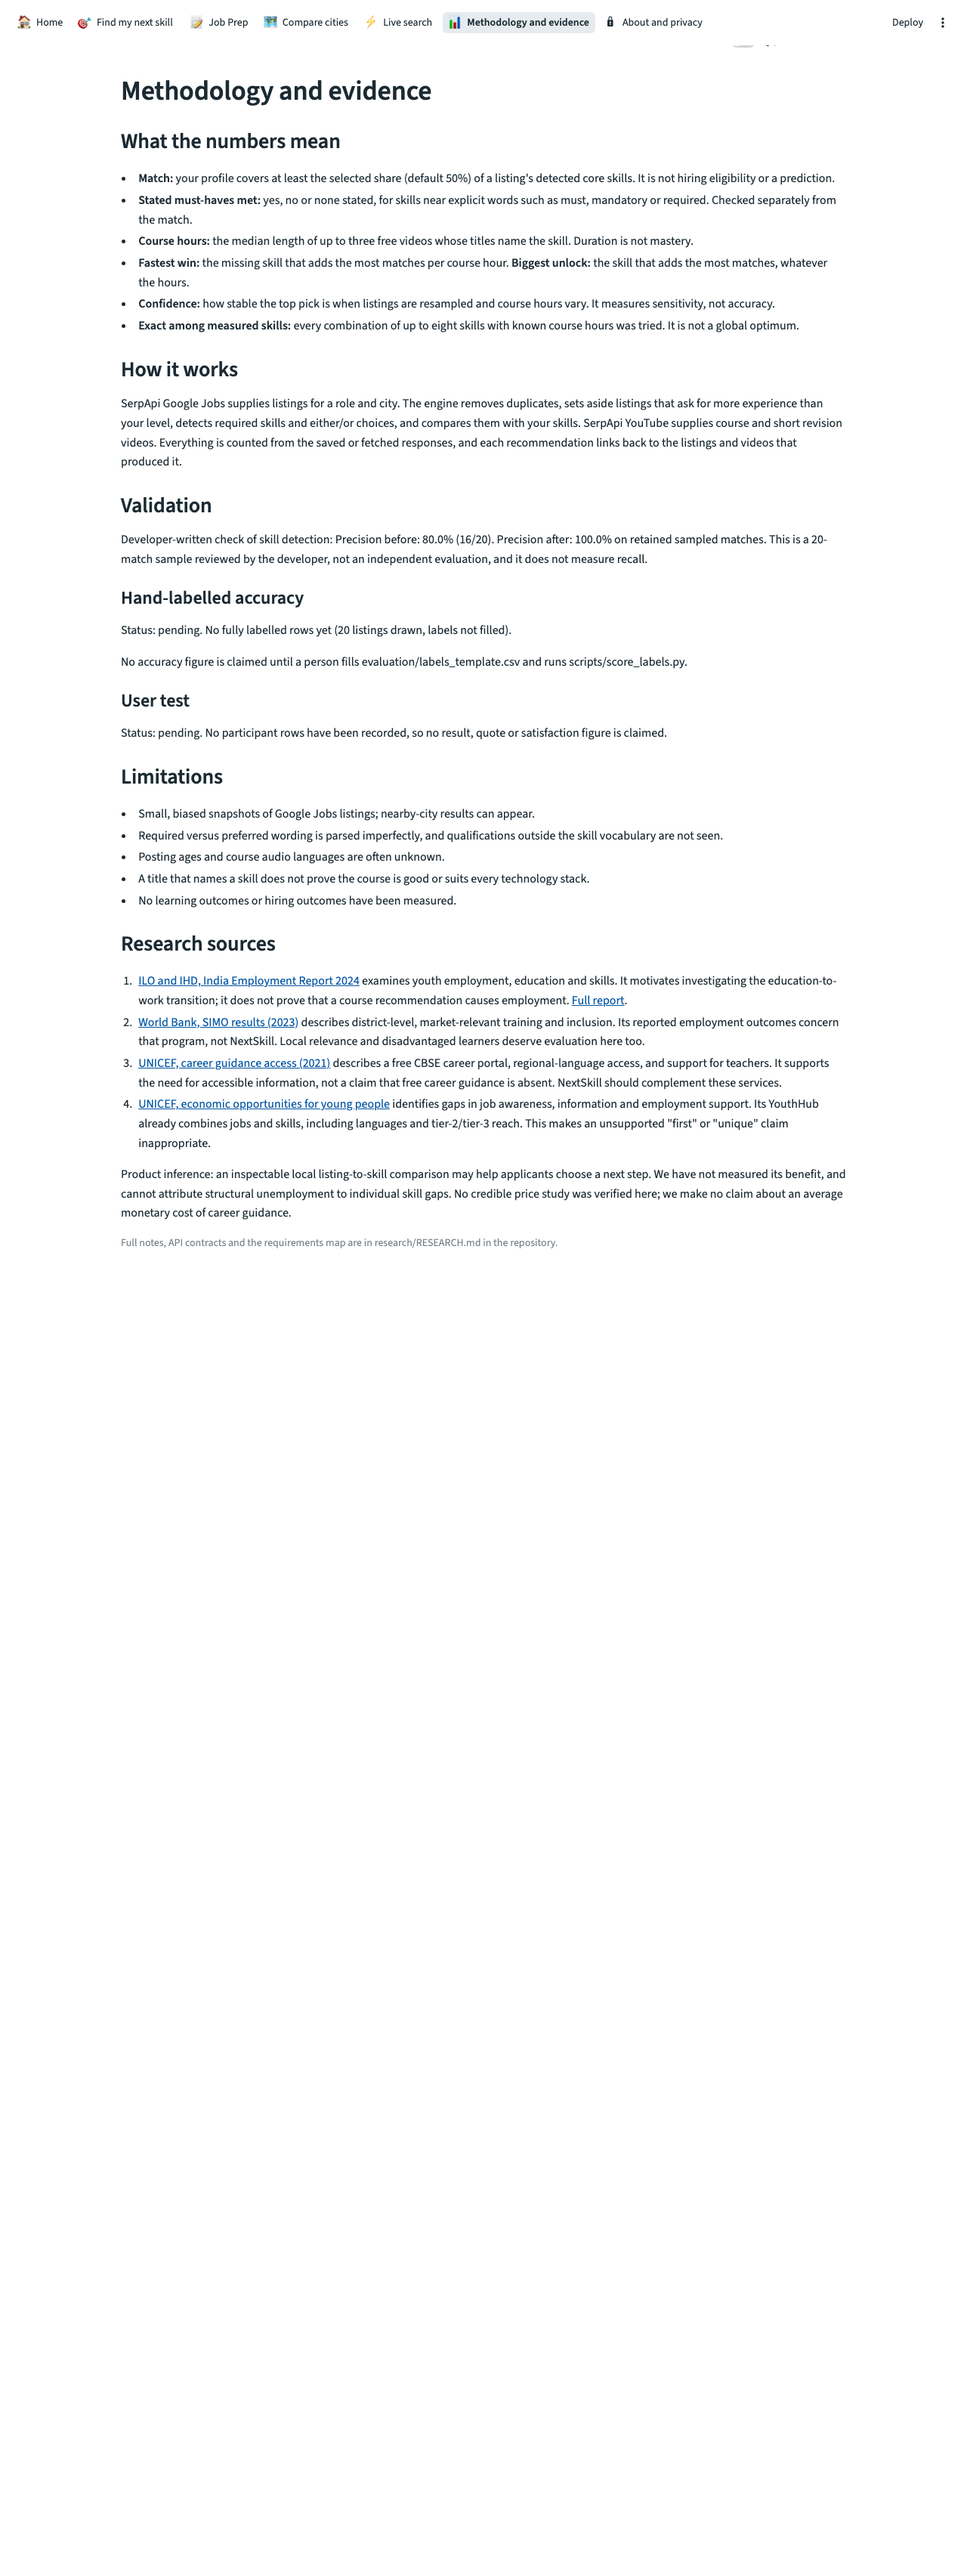
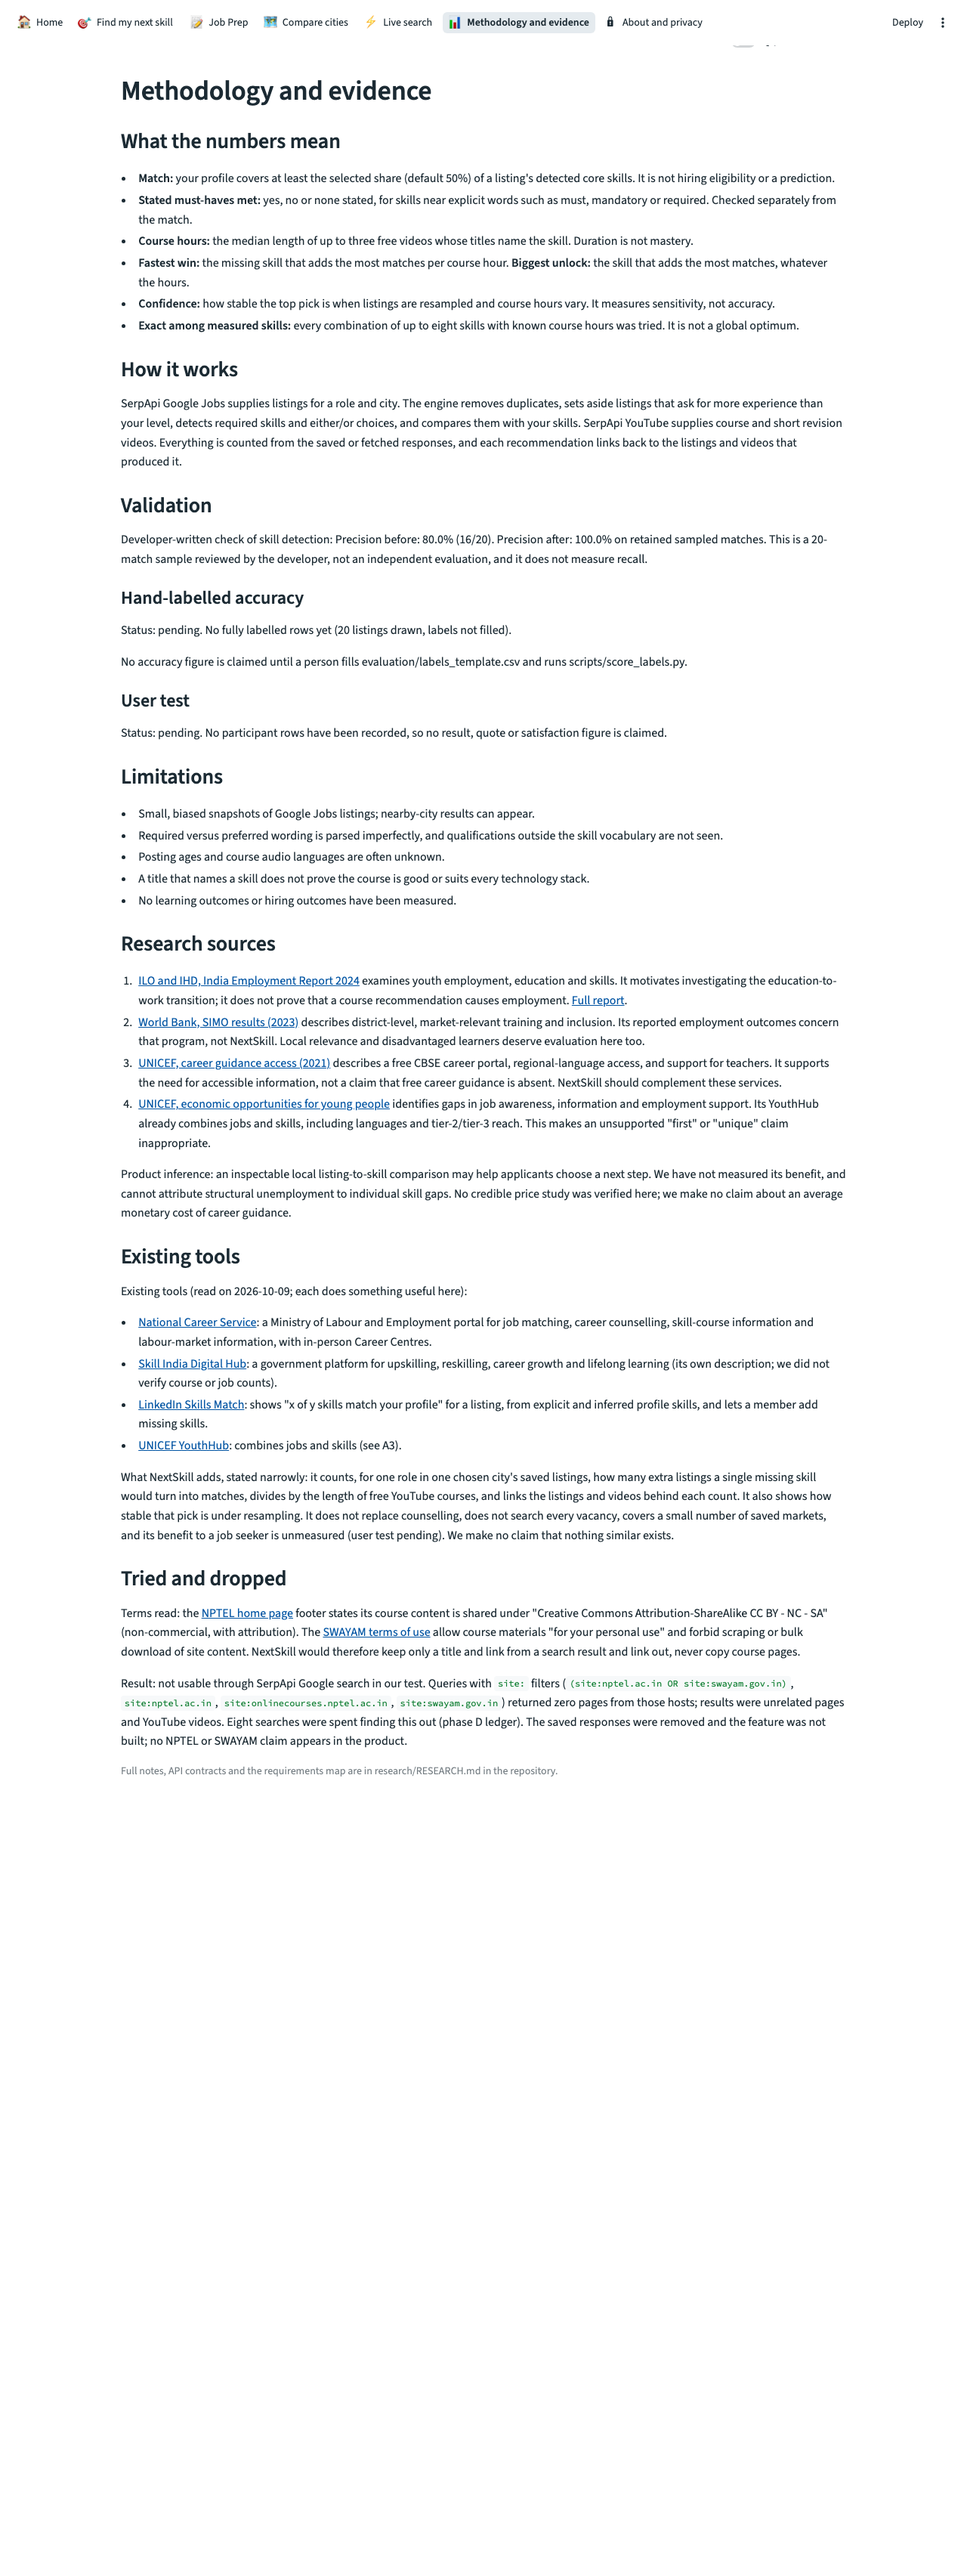
Record verification gates and freeze the build

Changed region(s): [[0.125, 0.4664, 0.8438, 0.6841]]

diff --git a/BUILD_LOG.md b/BUILD_LOG.md
@@ -400,6 +400,19 @@ Phase C remaining: 82 (of 105), of which revision videos 15.
   a failed request after earlier successes now keeps the partial results, is not retried, is shown in Search Replay
   as failed and explained in the answer. Re-run with budget 2: Search Replay showed the live requests, the cached
   base query and the skipped course search; the counter read "used 1, remaining 175"; partial results rendered with
-  limited-data and budget notes; 0 exceptions. Searches in H7: 4 of the cap of 5 (Account API: 72 -> 75 used,
+  limited-data and budget notes; 0 exceptions. Searches in H7: 4 of the cap of 5 (Account API after H7: 75 used, 175 left;
   the ledger shows 2 + 2 attempts). Screenshot: screenshots/live_run.png.
-- H8: pending (hosted app after this push).
+- H8: the hosted app loads Home, Find, Job Prep, Compare, Methodology and About in a fresh browser context with 0
+  exceptions and no Live search link. It was still serving stale saved numbers (8 markets, "unknown date") after the
+  last pushes: a cached results file survived the redeploy. The cache is now keyed by the file's modified time
+  (commit 'Key the saved results cache...'), but the human must reboot the Streamlit app and recheck in incognito.
+
+## Phase I - Documentation, demo, freeze
+
+- I1: no filled hand labels or user-test rows exist, so both reports say pending; nothing was generated by an assistant.
+- I2/I3: README and DEMO.md regenerated from reports/final_results.json (section above).
+- I4: screenshots re-captured for every page (site_*.png at 1280 px, mobile_home and mobile_find at 390 px,
+  live_run.png from the H7 run). Consistency check passes; CI green at the last push.
+- Budget: Account API final: 75 searches used this month, 175 left (plan cap 160; floor 90). Phase caps: C 57 recorded
+  attempts of 105 (revision 7 of 15), D 16 of 30, H 4 of 5.
+- I5: freeze after this commit; no feature work is pending.
